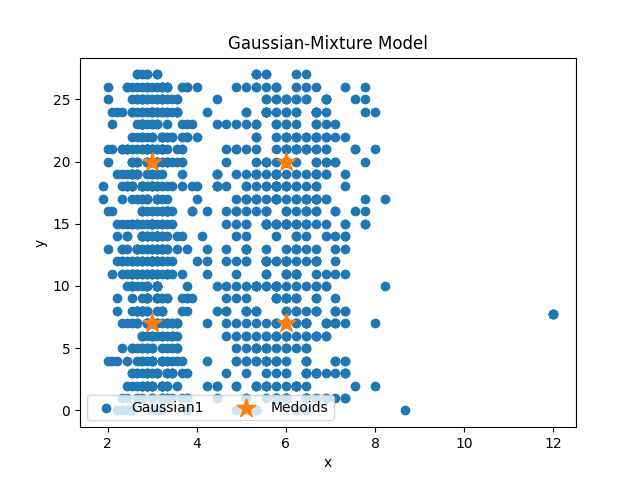
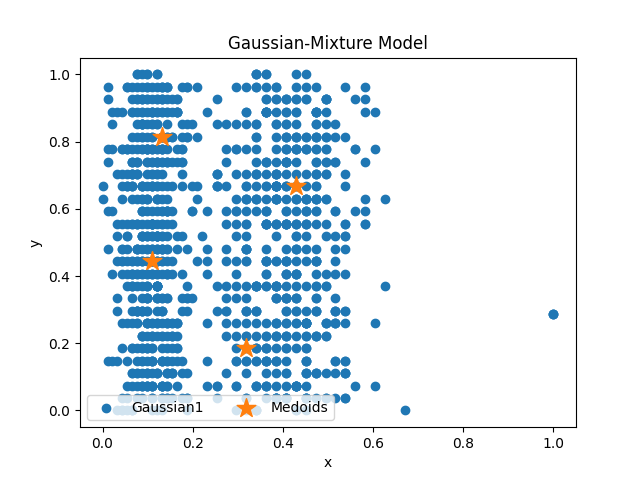
.

diff --git a/main3.py b/main3.py
@@ -1,0 +1,322 @@
+import numpy as np
+import pandas as pd
+import matplotlib.pyplot as plt
+import torch
+import sys
+import random
+import csv
+import math
+
+
+
+'''
+mean1 = [-2, 0]
+cov1 = [[2, 0.9], [0.9, 1]]
+data1 = np.random.multivariate_normal(mean1, cov1, 300)
+
+mean2 = [3, 4]
+cov2 = [[3, 0.1], [0.1, 3]]
+data2 = np.random.multivariate_normal(mean2, cov2, 300)
+
+mean3 = [6, -6]
+cov3 = [[2, -1], [-1, 2]]
+data3 = np.random.multivariate_normal(mean3, cov3, 300)
+
+data = np.concatenate((data1, data2, data3), axis=0)
+centers = np.asarray([mean1, mean2, mean3])
+
+# Plot
+fig1 = plt.scatter(data1[:, 0], data1[:, 1])
+fig2 = plt.scatter(data2[:, 0], data2[:, 1])
+fig3 = plt.scatter(data3[:, 0], data3[:, 1])
+fig4 = plt.scatter(centers[:, 0], centers[:, 1], marker="+", s=100)
+# plt.scatter(data[:, 0], data[:, 1])
+plt.title('Gaussian-Mixture Model')
+plt.xlabel('x')
+plt.ylabel('y')
+plt.legend((fig1, fig2, fig3, fig4),
+           ('Gaussian1', 'Guassian2', 'Guassian3', 'Means'),
+           scatterpoints=1,
+           loc='lower left',
+           ncol=2,
+           fontsize=10)
+plt.savefig('before_k_medoids.png')
+plt.show()
+
+
+'''
+data_input = pd.read_csv('data_set_01.csv')
+data = np.array([list(row) for row in data_input.values])
+print(type(data))
+print(len(data))
+
+
+
+df = pd.DataFrame(data)
+normalized_df=(df-df.min())/(df.max()-df.min())
+#normalized_df=(df-df.mean())/df.std()
+#normalized_df.to_csv (r'normalized_df.csv', index = False, header=True)
+
+data = np.array(normalized_df)
+# construct the similarity matrix
+num = len(data)
+similarity_matrix = np.zeros((num, num))
+
+for i in range(0, num):
+    for j in range(i+1, num):
+        diff = data[i] - data[j]
+        dist_tmp = np.linalg.norm(diff)
+        similarity_matrix[i][j] = dist_tmp
+        similarity_matrix[j][i] = dist_tmp
+
+
+
+similarity_matrix = torch.from_numpy(similarity_matrix)
+
+
+
+
+def k_medoids(similarity_matrix, k):
+    
+    # Step 1: Select initial medoids
+    num = len(similarity_matrix)
+    row_sums = torch.sum(similarity_matrix, dim=1)
+    normalized_sim = similarity_matrix.T / row_sums
+    normalized_sim = normalized_sim.T    
+    priority_scores = -torch.sum(normalized_sim, dim=0)
+    values, indices = priority_scores.topk(k)
+    tmp = -similarity_matrix[:, indices]
+    tmp_values, tmp_indices = tmp.topk(1, dim=1)
+    min_distance = -torch.sum(tmp_values)
+    cluster_assignment = tmp_indices.resize_(num)
+    #print(min_distance)
+    
+    # Step 2: Update medoids
+    for i in range(k):
+        sub_indices = (cluster_assignment == i).nonzero()
+        sub_num = len(sub_indices)
+        sub_indices = sub_indices.resize_(sub_num)
+        sub_similarity_matrix = torch.index_select(similarity_matrix, 0, sub_indices)
+        sub_similarity_matrix = torch.index_select(sub_similarity_matrix, 1, sub_indices)
+        sub_row_sums = torch.sum(sub_similarity_matrix, dim=1)
+        sub_medoid_index = torch.argmin(sub_row_sums)
+        # update the cluster medoid index
+        indices[i] = sub_indices[sub_medoid_index]
+
+  
+    # Step 3: Assign objects to medoids
+    tmp = -similarity_matrix[:, indices]
+    tmp_values, tmp_indices = tmp.topk(1, dim=1)
+    total_distance = -torch.sum(tmp_values)
+    cluster_assignment = tmp_indices.resize_(num)
+    #print(total_distance)
+        
+    while (total_distance < min_distance):
+        min_distance = total_distance
+        # Step 2: Update medoids
+        for i in range(k):
+            sub_indices = (cluster_assignment == i).nonzero()
+            sub_num = len(sub_indices)
+            sub_indices = sub_indices.resize_(sub_num)
+            sub_similarity_matrix = torch.index_select(similarity_matrix, 0, sub_indices)
+            sub_similarity_matrix = torch.index_select(sub_similarity_matrix, 1, sub_indices)
+            sub_row_sums = torch.sum(sub_similarity_matrix, dim=1)
+            sub_medoid_index = torch.argmin(sub_row_sums)
+            # update the cluster medoid index
+            indices[i] = sub_indices[sub_medoid_index]
+
+        # Step 3: Assign objects to medoids
+        tmp = -similarity_matrix[:, indices]
+        tmp_values, tmp_indices = tmp.topk(1, dim=1)
+        total_distance = -torch.sum(tmp_values)
+        cluster_assignment = tmp_indices.resize_(num)
+        #print(total_distance)
+        
+    return indices
+
+indices = k_medoids(similarity_matrix, k=4)
+medoids = []
+for i in range(4):
+    medoids.append(data[indices[i]])
+
+print(medoids)
+medoids_list_b = medoids
+
+'''
+df = pd.DataFrame(medoids)
+df.to_csv (r'medoids.csv', index = False, header=False)
+'''
+
+
+medoids = np.asarray(medoids)
+#print(indices)
+print(medoids)
+fig1 = plt.scatter(data[:, 0], data[:, 1])
+#fig2 = plt.scatter(data2[:, 0], data2[:, 1])
+#fig3 = plt.scatter(data3[:, 0], data3[:, 1])
+#fig4 = plt.scatter(centers[:, 0], centers[:, 1], marker="+", s=200)
+fig5 = plt.scatter(medoids[:, 0], medoids[:, 1], marker="*", s=200)
+plt.title('Gaussian-Mixture Model')
+plt.xlabel('x')
+plt.ylabel('y')
+comm = '''
+'''
+plt.legend((fig1,  fig5),
+           ('Gaussian1',  'Medoids'),
+           scatterpoints=1,
+           loc='lower left',
+           ncol=2,
+           fontsize=10)
+
+plt.savefig('after_k_medoids.png')
+plt.show()
+
+################################################################################## find result
+'''
+with open('normalized_df.csv', newline='') as f:
+    reader = csv.reader(f)
+    normalized_data = list(reader)
+'''
+normalized_data = [normalized_df.columns.values.tolist()] + normalized_df.values.tolist()
+
+print(normalized_data[len(normalized_data)-1])
+'''
+with open('medoids.csv', newline='') as f:
+    reader = csv.reader(f)
+    medoids_list_b = list(reader)
+'''
+
+
+y_data_m=[]
+for i in range(4):
+    y_data_m.append(float(medoids_list_b[i][1]))
+
+print("before sort ------------->",medoids_list_b)
+y_data_m_s = sorted(y_data_m)
+print("sort y",sorted(y_data_m))
+
+medoids_list=[]
+for i in range(4):
+    for j in range(4):
+        if float(medoids_list_b[j][1]) == y_data_m_s[i]:
+            medoids_list.append(medoids_list_b[j])
+            break
+
+print("after sort ------------->",medoids_list)
+
+out_put_set =[]
+
+for i in range(len(normalized_data)):
+
+    last_data = normalized_data[i]
+    resu = []
+
+    for i in range(len(medoids_list)):
+        resu.append(   math.sqrt((float(medoids_list[i][0])-float(last_data[0])) ** 2) + ((float(medoids_list[i][1])-float(last_data[1])) ** 2)   )
+    print(resu)
+
+
+    min_resu = min(resu)
+
+    for i in range(len(resu)):
+        if min_resu == resu[i]:
+            resu_no = i
+    print(resu_no)
+
+
+    set_resu_min = []
+
+    for i in range(len(resu)):
+        if resu[i] > min_resu:
+            set_resu_min.append(resu[i])
+    print(set_resu_min)
+
+    min_set_resu_min = min(set_resu_min)
+
+    for i in range(len(resu)):
+        if resu[i] == min_set_resu_min:
+            set_resu_min_no = i
+    print(set_resu_min_no)
+
+    max_len = (math.sqrt((float(medoids_list[resu_no][0])-float(medoids_list[set_resu_min_no][0])) ** 2) + ((float(medoids_list[resu_no][1])-float(medoids_list[set_resu_min_no][1])) ** 2))/2
+    print(max_len)
+
+
+    if resu_no == 0:
+        if min_resu > max_len:
+            point = 5
+        elif min_resu > (max_len*5)/6 and min_resu <= max_len:
+            point = 5
+        elif min_resu > (max_len*4)/6 and min_resu <= (max_len*5)/6:
+            point = 4
+        elif min_resu > (max_len*3)/6 and min_resu <= (max_len*4)/6:
+            point = 3
+        elif min_resu > (max_len*2)/6 and min_resu <= (max_len*3)/6:
+            point = 2
+        elif min_resu > (max_len*1)/6 and min_resu <= (max_len*2)/6:
+            point = 1
+        elif min_resu > 0 and min_resu <= (max_len*1)/6:
+            point = 0
+
+    if resu_no == 1:
+        if min_resu > max_len:
+            point = 12
+        elif min_resu > (max_len*6)/7 and min_resu <= max_len:
+            point = 12
+        elif min_resu > (max_len*5)/7 and min_resu <= (max_len*6)/7:
+            point = 11
+        elif min_resu > (max_len*4)/7 and min_resu <= (max_len*5)/7:
+            point = 10
+        elif min_resu > (max_len*3)/7 and min_resu <= (max_len*4)/7:
+            point = 9
+        elif min_resu > (max_len*2)/7 and min_resu <= (max_len*3)/7:
+            point = 8
+        elif min_resu > (max_len*1)/7 and min_resu <= (max_len*2)/7:
+            point = 7
+        elif min_resu > 0 and min_resu <= (max_len*1)/7:
+            point = 6
+
+    if resu_no == 2:
+        if min_resu > max_len:
+            point = 18
+        elif min_resu > (max_len*5)/6 and min_resu <= max_len:
+            point = 18
+        elif min_resu > (max_len*4)/6 and min_resu <= (max_len*5)/6:
+            point = 17
+        elif min_resu > (max_len*3)/6 and min_resu <= (max_len*4)/6:
+            point = 16
+        elif min_resu > (max_len*2)/6 and min_resu <= (max_len*3)/6:
+            point = 15
+        elif min_resu > (max_len*1)/6 and min_resu <= (max_len*2)/6:
+            point = 14
+        elif min_resu > 0 and min_resu <= (max_len*1)/6:
+            point = 13
+
+    if resu_no == 3:
+        if min_resu > max_len:
+            point = 24
+        elif min_resu > (max_len*5)/6 and min_resu <= max_len:
+            point = 24
+        elif min_resu > (max_len*4)/6 and min_resu <= (max_len*5)/6:
+            point = 23
+        elif min_resu > (max_len*3)/6 and min_resu <= (max_len*4)/6:
+            point = 22
+        elif min_resu > (max_len*2)/6 and min_resu <= (max_len*3)/6:
+            point = 21
+        elif min_resu > (max_len*1)/6 and min_resu <= (max_len*2)/6:
+            point = 20
+        elif min_resu > 0 and min_resu <= (max_len*1)/6:
+            point = 19
+
+
+    print(point)
+
+    output = {
+        "point":point,
+        "position":last_data,
+        "medoids":medoids_list,
+    }
+    out_put_set.append(output)
+    output={}
+
+#print(out_put_set)

diff --git a/main_api3.py b/main_api3.py
@@ -19,7 +19,14 @@ firebase_admin.initialize_app(options={
 #mindfit = db.reference('mindfit')
 
 def Average(lst): 
-    return sum(lst) / len(lst)   
+    return sum(lst) / len(lst)
+
+@app.route('/test', methods=['POST'])
+def test():  
+
+    req1 = request.json
+
+    return jsonify({"Status":"OK"})   
 
 @app.route('/push_data', methods=['POST'])
 def create_data():  

diff --git a/main_api4.py b/main_api4.py
@@ -16,7 +16,7 @@ app = Flask(__name__)
 firebase_admin.initialize_app(options={
     'databaseURL': 'https://nicetynine-mind-fit.firebaseio.com',})
 
-mindfit = db.reference('mindfit')
+#mindfit = db.reference('mindfit')
 
 def Average(lst): 
     return sum(lst) / len(lst)
